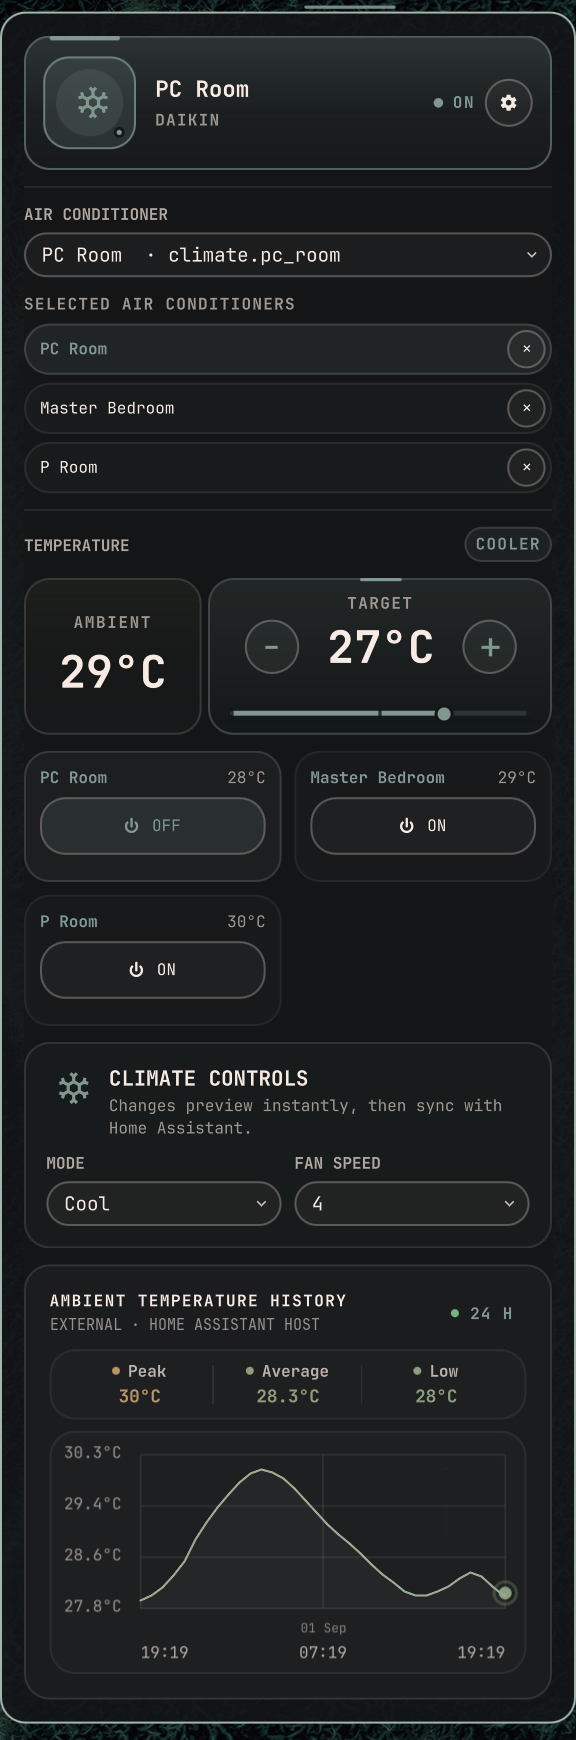
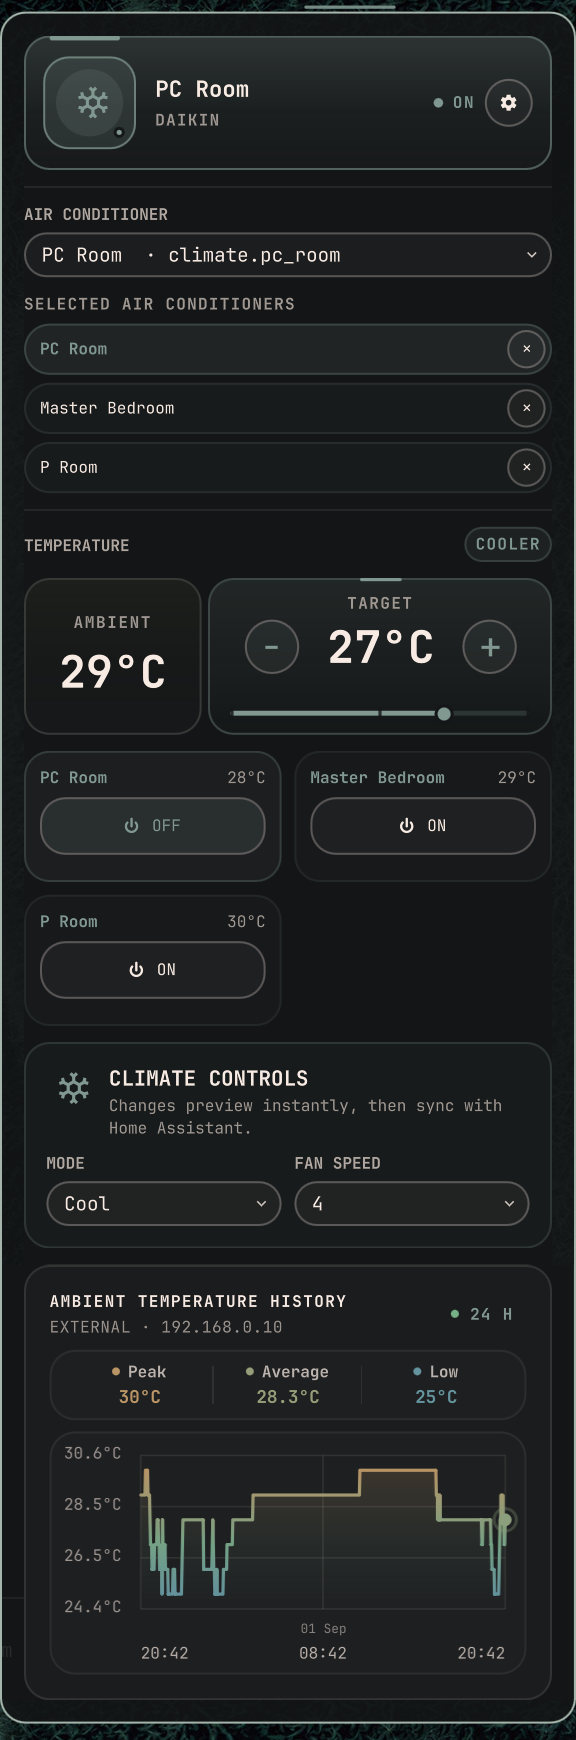
Use live chart capture in screenshot gallery

diff --git a/README.md b/README.md
@@ -12,13 +12,12 @@ Daikin cloud or replace Home Assistant's Daikin integration.
 
 <table>
 <tr>
-<td align="center" valign="top"><img src="docs/screenshots/single-ac-external.png" alt="Single-AC home screen with external server history" width="420"><br><sub>Single AC · external server history</sub></td>
-<td align="center" valign="top"><img src="docs/screenshots/multi-ac-external.png" alt="Multi-AC home screen with external server history" width="420"><br><sub>Multiple ACs · external server history</sub></td>
+<td align="center" valign="top"><img src="docs/screenshots/single-ac-external.png" alt="Single-AC home screen" width="420"><br><sub>Single AC</sub></td>
+<td align="center" valign="top"><img src="docs/screenshots/multi-ac-external.png" alt="Multi-AC home screen" width="420"><br><sub>Multiple ACs</sub></td>
 </tr>
 </table>
 
-Both gallery screenshots use **EXTERNAL SERVER** history, so the chart shows a
-fuller 24-hour recording rather than the local PC log.
+Both gallery screenshots show a complete 24-hour ambient-temperature recording.
 
 ## Requirements
 
